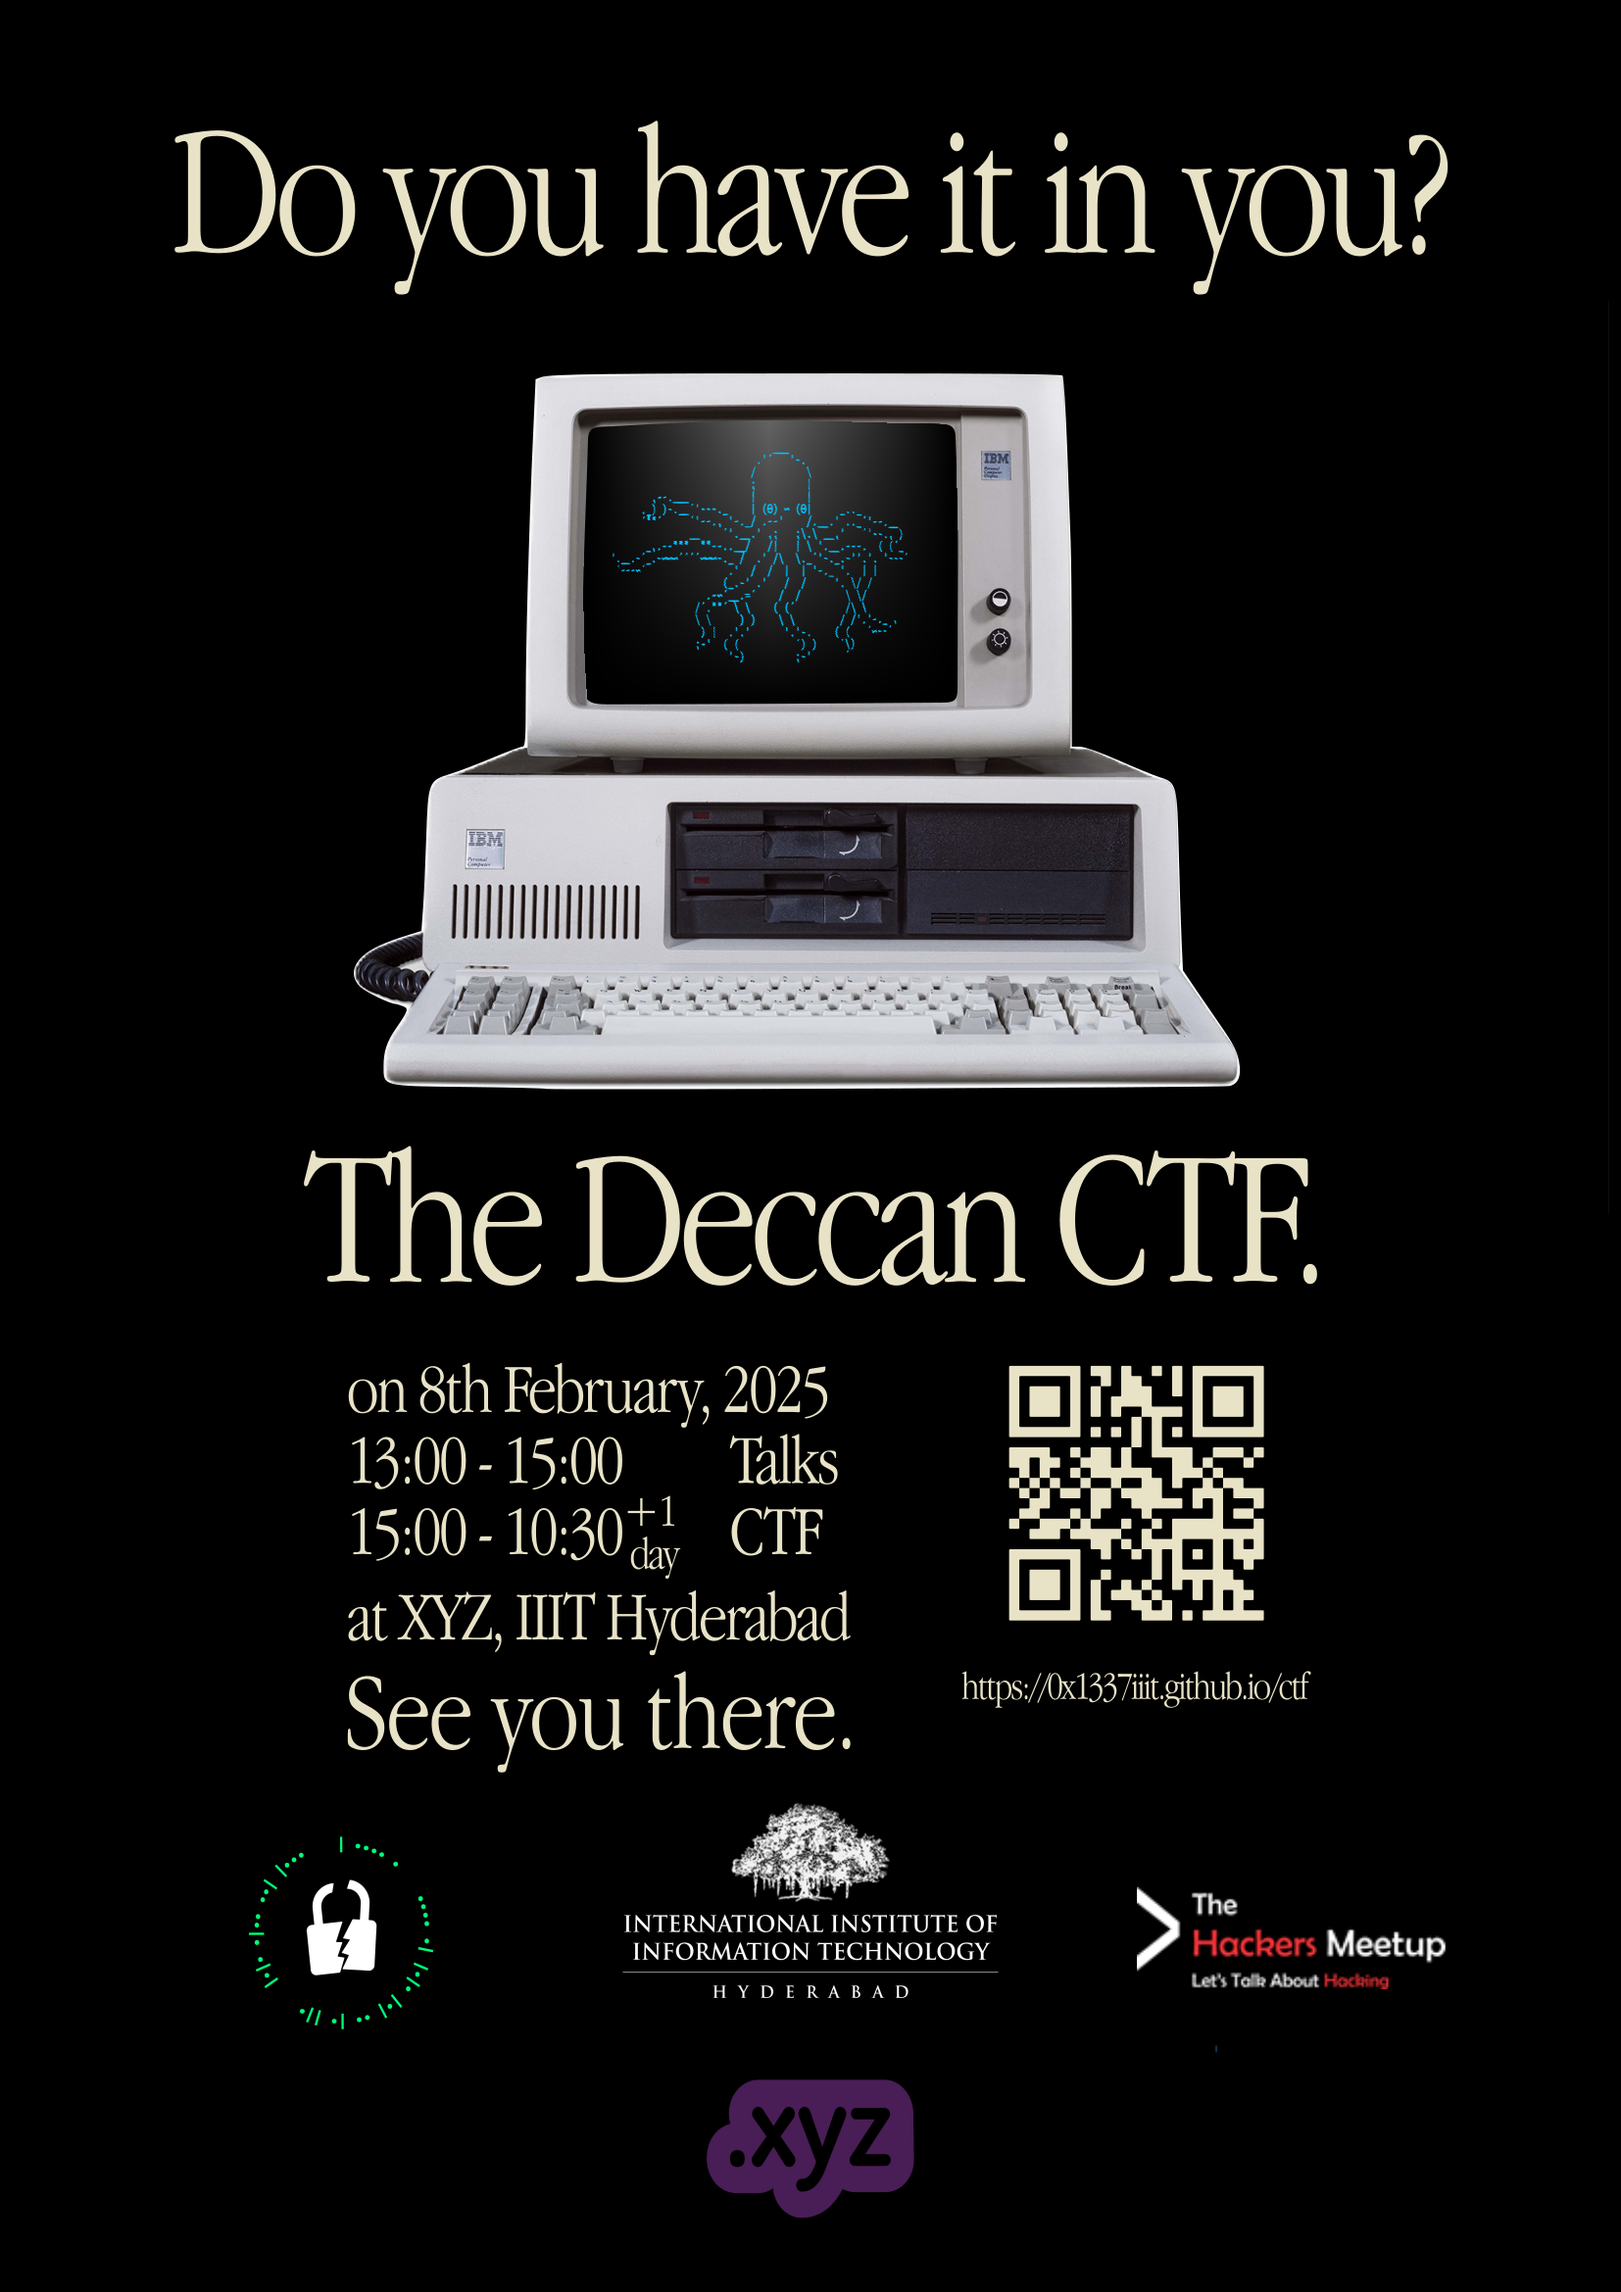
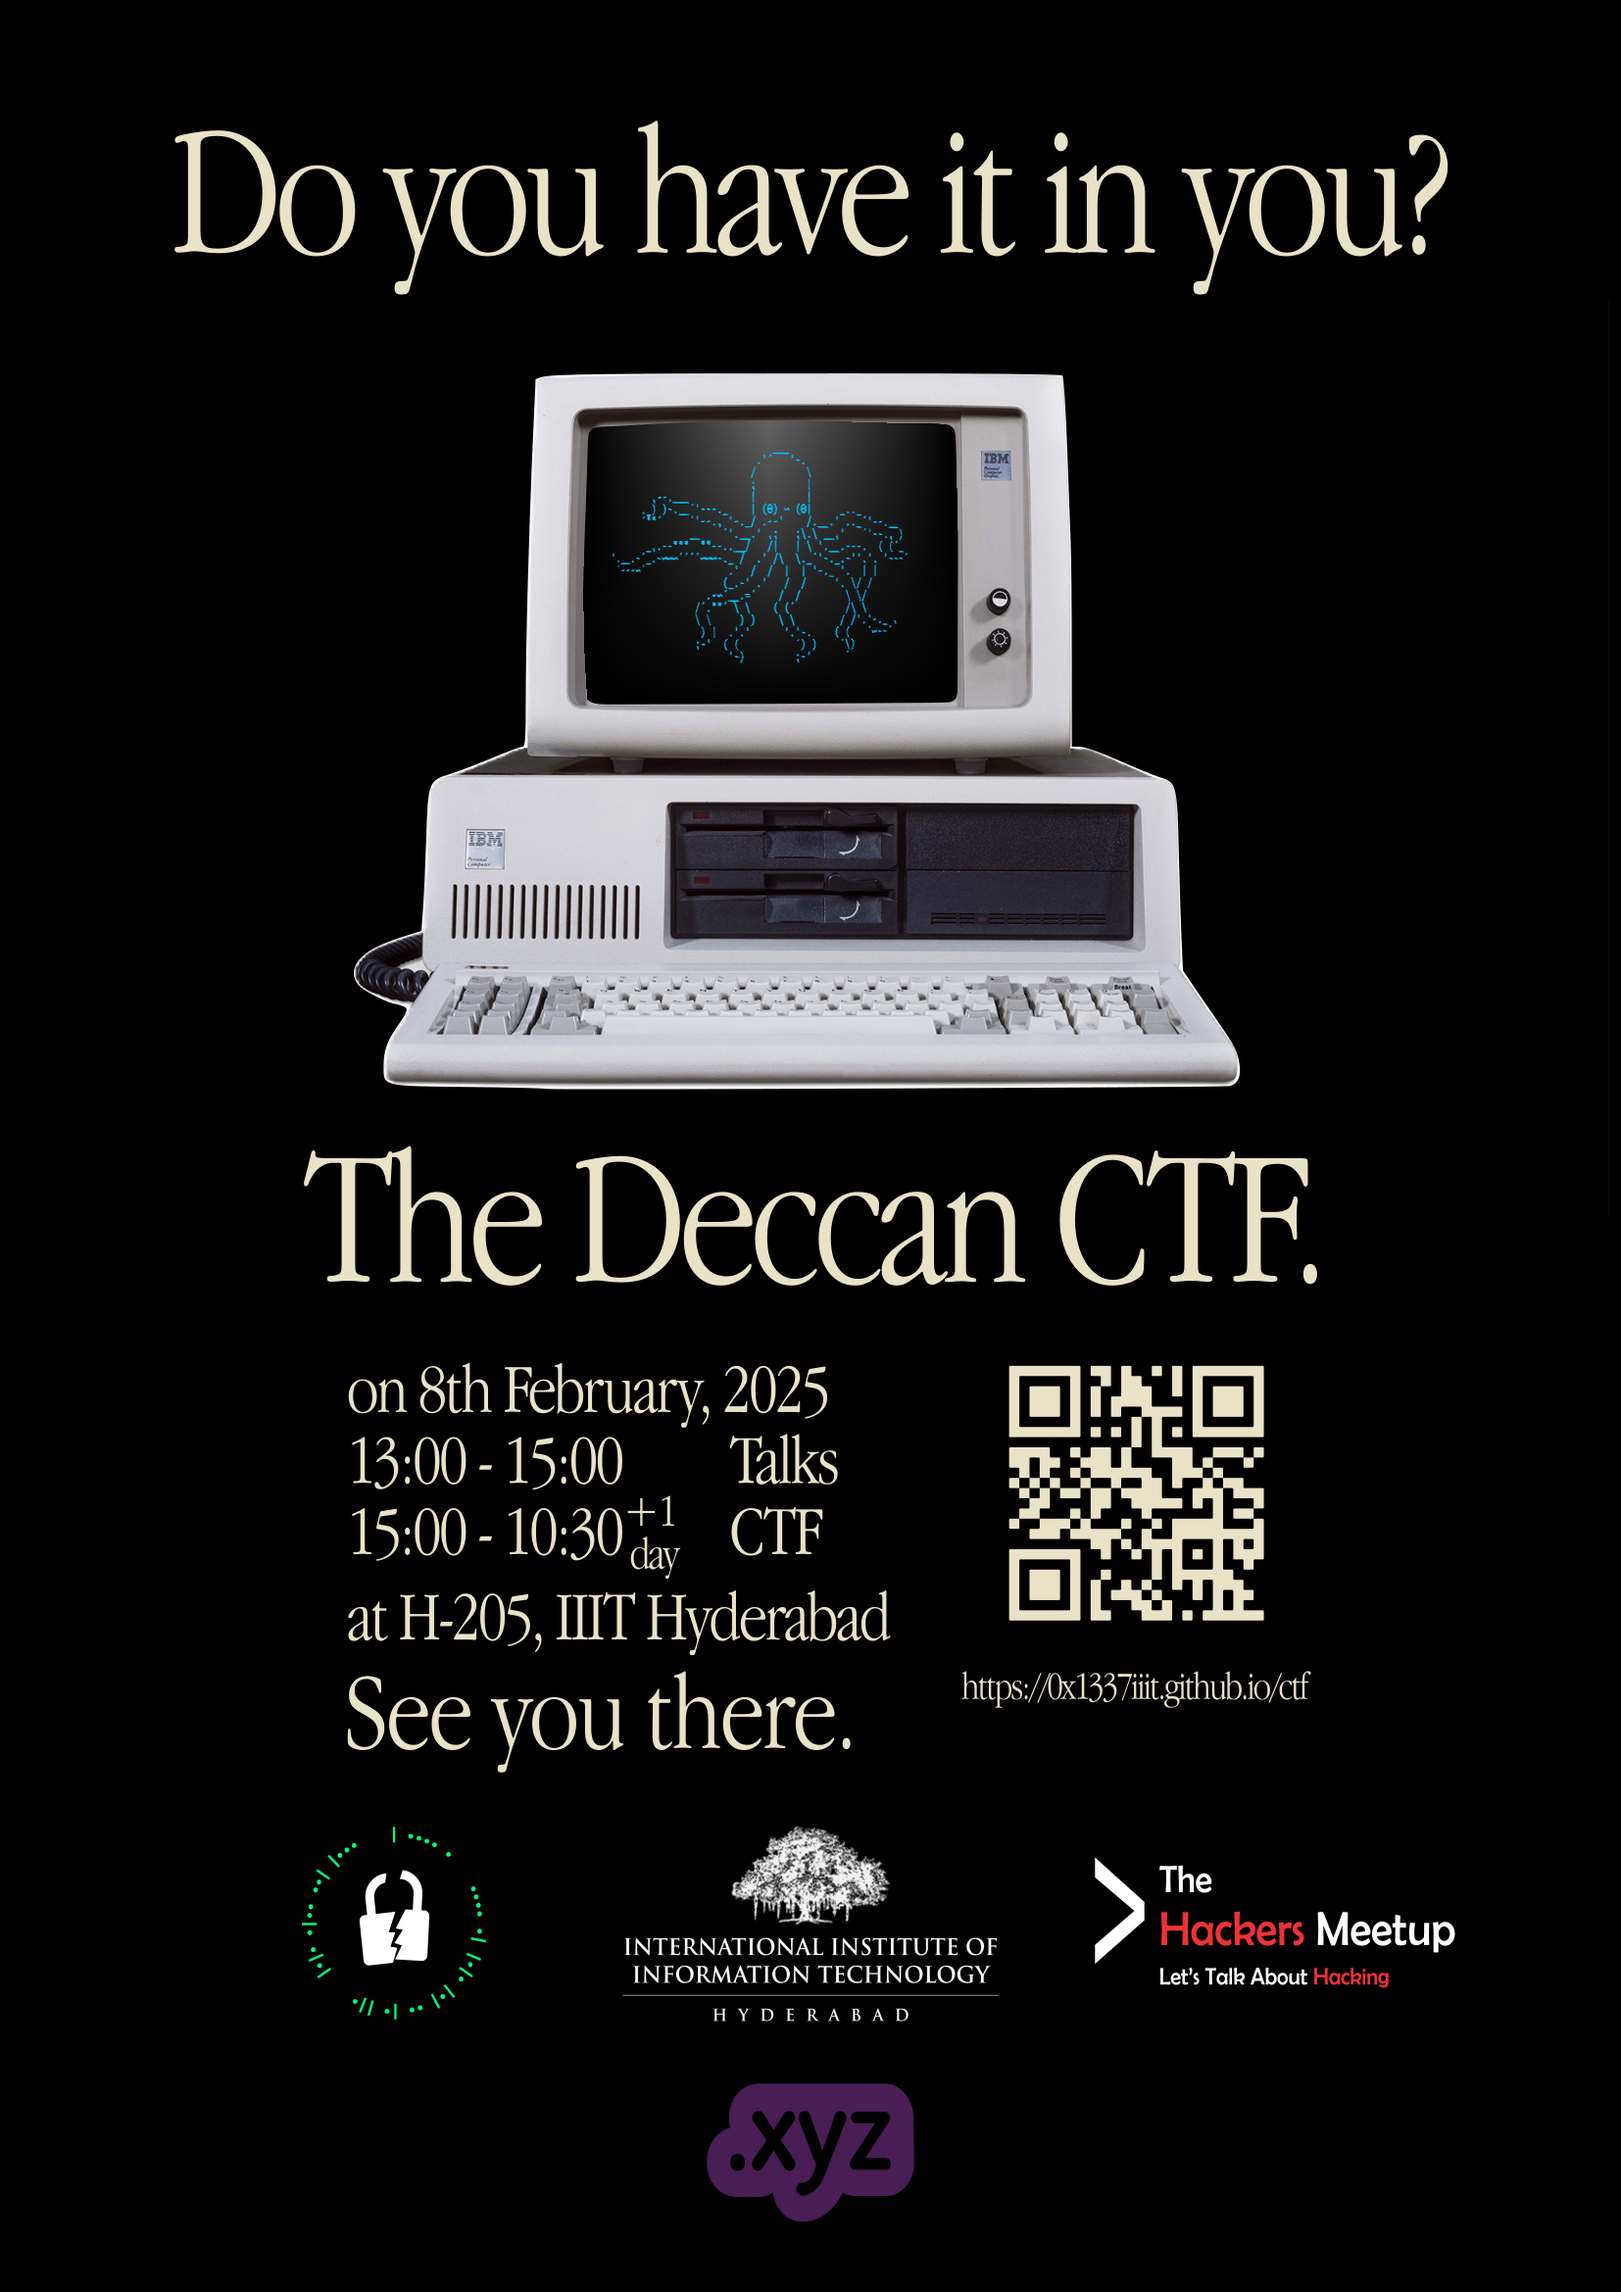
venue

diff --git a/ctf.md b/ctf.md
@@ -50,6 +50,8 @@ There will be 3 explicitly marked challenges. For each such marked challenge, th
 
 Note that prizes are partially/fully in the form of Amazon vouchers/gift cards.
 
+# Venue: H-205, Himalaya block, IIIT-H, Gachibowli
+
 <h1>Rules</h1>
 - No bruteforcing/fuzzing any infra unless allowed explicitly.
   **We have made all challenges such that these techniques will not be required, and if required we will explicitly inform you in the question itself and/or in the hall.**
@@ -68,8 +70,7 @@ Note that prizes are partially/fully in the form of Amazon vouchers/gift cards.
 - No sleeping accommodation is there, you are meant to grind through the night after all ⚒
 
 
-# Seats are limited register now.
-
+# Seats are limited, register now.
 
 <center>
 <button class="button-64" role="button" onClick="window.open('https://forms.office.com/r/NPUyhnxFk5')"><span class="text">Register</span></button>
